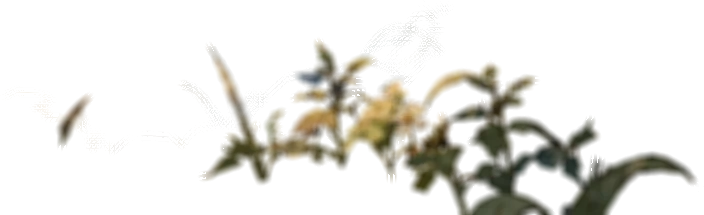
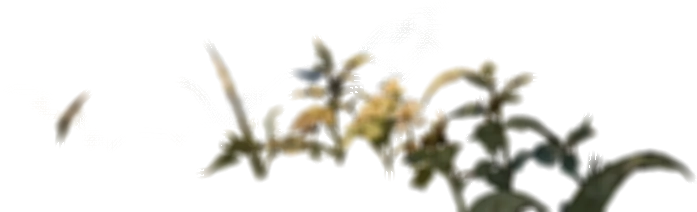
No more split plants: twigs sway only in the upper canopy, still lake rocks with rippling water only, feathered blurred-foreground rims, tighter shade
Claude-Session: https://claude.ai/code/session_0178fiKuzCTDLTmbjUn3RG9Q

diff --git a/me-mori-intro.html b/me-mori-intro.html
@@ -551,14 +551,15 @@
         layers: [
           { src:'assets/paper/forest3/back.webp', x:0, y:0, w:1672, h:941, depth:0 },
           { src:'assets/paper/forest3/front-trunks.webp', x:0, y:0, w:1672, h:941, depth:0.25 },
-          { src:'assets/paper/forest3/02-trees-left-twigs.webp', x:94, y:0, w:544, h:941, ox:120, oy:520, depth:0.25, sway:{ amp:0.45, period:6.2, bend:0.5, gust:1.1 } },
-          { src:'assets/paper/forest3/03-trees-right-twigs.webp', x:764, y:0, w:810, h:941, ox:1560, oy:520, depth:0.25, sway:{ amp:0.45, period:6.6, bend:0.5, gust:1.1 } },
-          { src:'assets/paper/forest3/lake.webp', x:70, y:351, w:1151, h:526, depth:0.2, className:'lake-ripple' },
+          { src:'assets/paper/forest3/02-trees-left-twigs.webp', x:94, y:0, w:121, h:415, ox:120, oy:520, depth:0.25, sway:{ amp:0.45, period:6.2, bend:0.5, gust:1.1 } },
+          { src:'assets/paper/forest3/03-trees-right-twigs.webp', x:1334, y:0, w:239, h:416, ox:1560, oy:520, depth:0.25, sway:{ amp:0.45, period:6.6, bend:0.5, gust:1.1 } },
+          { src:'assets/paper/forest3/lake-water.webp', x:205, y:701, w:845, h:176, depth:.2, className:'lake-ripple' },
+          { src:'assets/paper/forest3/lake-still.webp', x:70, y:351, w:1151, h:526, depth:.2 },
           { src:'assets/paper/forest3/bank-beetle.webp', x:0, y:17, w:1672, h:924, depth:0.5 },
-          { src:'assets/paper/forest3/fg-shade.webp', x:0, y:295, w:1672, h:646, depth:.5 },
+          { src:'assets/paper/forest3/fg-shade.webp', x:0, y:310, w:1672, h:631, depth:.5 },
           { src:'assets/paper/forest3/08-overhead-leaves.webp', x:495, y:0, w:704, h:211, ox:850, oy:-40, depth:0.45, shadow:true, sway:{ amp:0.45, period:8, bend:0.55 } },
-          { src:'assets/paper/forest3/09-foreground-left.webp', x:0, y:332, w:588, h:609, ox:150, oy:980, depth:1, sway:{ amp:0.5, period:7.5, bend:0.7 } },
-          { src:'assets/paper/forest3/10-foreground-bottom.webp', x:578, y:726, w:704, h:215, ox:930, oy:990, depth:0.9, sway:{ amp:0.45, period:5.6, bend:0.75 } },
+          { src:'assets/paper/forest3/09-foreground-left.webp', x:0, y:332, w:585, h:609, ox:150, oy:980, depth:1, sway:{ amp:0.5, period:7.5, bend:0.7 } },
+          { src:'assets/paper/forest3/10-foreground-bottom.webp', x:580, y:729, w:697, h:212, ox:930, oy:990, depth:0.9, sway:{ amp:0.45, period:5.6, bend:0.75 } },
           { src:'assets/paper/forest3/11-foreground-right.webp', x:1217, y:728, w:455, h:213, ox:1500, oy:990, depth:0.9, sway:{ amp:0.5, period:6.4, bend:0.7 } }
         ],
         preload: ['assets/paper/forest3/06-beetle-head.webp'],

diff --git a/tools/paper-cut/build_forest.py b/tools/paper-cut/build_forest.py
@@ -25,6 +25,11 @@ def split(im):
     a = im[..., 3].astype(np.float32) / 255
     thick = cv2.morphologyEx((a > .5).astype(np.uint8), cv2.MORPH_OPEN, cv2.getStructuringElement(cv2.MORPH_ELLIPSE, (31, 31)))
     t = cv2.GaussianBlur(cv2.dilate(thick, cv2.getStructuringElement(cv2.MORPH_ELLIPSE, (9, 9))).astype(np.float32), (0, 0), 3)
+    # only branch tips high in the canopy may sway; below y~380 everything belongs to the still part,
+    # so a plant is never split into a still half and a moving half
+    ys = np.arange(H, dtype=np.float32)[:, None]
+    canopy = np.clip((420 - ys) / 80, 0, 1)            # 1 above y=340, 0 below y=420
+    t = 1 - (1 - t) * canopy
     trunk, twigs = im.copy(), im.copy()
     trunk[..., 3] = np.clip(a * t * 255, 0, 255).astype(np.uint8)
     tw = np.clip(a * (1 - t) * 255, 0, 255).astype(np.uint8); tw[tw < 14] = 0
@@ -70,7 +75,19 @@ t03, w03 = split(load('03-trees-right'))
 save(over(load('01-background'), load('01b-rear-tree-left'), l01c), 'back', opaque=True)
 save(over(t02, t03), 'front-trunks')
 save(w02, '02-trees-left-twigs'); save(w03, '03-trees-right-twigs')
-save(load('04-lake'), 'lake')
+# lake: only the water ripples; rocks and reeds stay still on top of it
+lake = load('04-lake')
+hsv = cv2.cvtColor(lake[..., :3], cv2.COLOR_RGB2HSV)
+ys = np.arange(H)[:, None]
+water = ((ys >= 705) & (hsv[..., 2] > 45) & (lake[..., 3] > 0)).astype(np.uint8)
+water = cv2.morphologyEx(water, cv2.MORPH_CLOSE, np.ones((9, 9), np.uint8))
+water = cv2.erode(water, np.ones((5, 5), np.uint8)).astype(np.float32)
+water = cv2.GaussianBlur(water, (0, 0), 3)
+wl, sl = lake.copy(), lake.copy()
+wl[..., 3] = (lake[..., 3] * water).astype(np.uint8)
+sl[..., 3] = (lake[..., 3] * (1 - water)).astype(np.uint8)
+water_full = lake.copy(); water_full[..., 3] = np.where(water > 0.02, lake[..., 3], 0)   # opaque water under the still parts
+save(water_full, 'lake-water'); save(sl, 'lake-still')
 save(over(load('05-main-bank'), load('07-beetle-body')), 'bank-beetle')
 save(load('06-beetle-head'), '06-beetle-head')
 # Foreground shade: the blurred foreground leaves (09-11) repaint plants that also exist sharp in the
@@ -78,14 +95,18 @@ save(load('06-beetle-head'), '06-beetle-head')
 # darkened, out-of-focus copy of the scene (reads as the shadow / bokeh of leaves near the lens).
 fg = [load(n) for n in ['09-foreground-left', '10-foreground-bottom', '11-foreground-right']]
 a_fg = np.max(np.stack([f[..., 3] for f in fg]), 0).astype(np.float32) / 255
-reach = cv2.dilate((a_fg > .08).astype(np.uint8), cv2.getStructuringElement(cv2.MORPH_ELLIPSE, (31, 31))).astype(np.float32)
+reach = cv2.dilate((a_fg > .25).astype(np.uint8), cv2.getStructuringElement(cv2.MORPH_ELLIPSE, (13, 13))).astype(np.float32)
 SHADE = 1.0 if LEGACY else 0.8                      # v7 art has far fewer duplicates: lighter cover
-cover = np.clip(cv2.GaussianBlur(np.maximum(reach * .85, a_fg), (0, 0), 9) * 1.15, 0, 1) * SHADE
+cover = np.clip(cv2.GaussianBlur(np.maximum(reach * .7, a_fg), (0, 0), 7), 0, 1) * SHADE
 below = np.array(over(load('01-background'), load('01b-rear-tree-left'), l01c, t02, w02, t03, w03, load('04-lake'),
                       load('05-main-bank'), load('07-beetle-body')).convert('RGB')).astype(np.float32)
 soft = cv2.GaussianBlur(below, (0, 0), 14) * (.5 if LEGACY else .62)
 shade = np.dstack([np.clip(soft, 0, 255), cover * 255]).astype(np.uint8)
 save(shade, 'fg-shade')
 save(l08, '08-overhead-leaves')
-for n in ['09-foreground-left', '10-foreground-bottom', '11-foreground-right']: save(load(n), n)
+for n in ['09-foreground-left', '10-foreground-bottom', '11-foreground-right']:
+    f = load(n)
+    a = f[..., 3].astype(np.float32)
+    f[..., 3] = np.clip(np.minimum(a, cv2.GaussianBlur(a, (0, 0), 3.5) * 1.15), 0, 255).astype(np.uint8)   # feathered rim, no hard cut
+    save(f, n)
 print(json.dumps(meta, indent=1))
